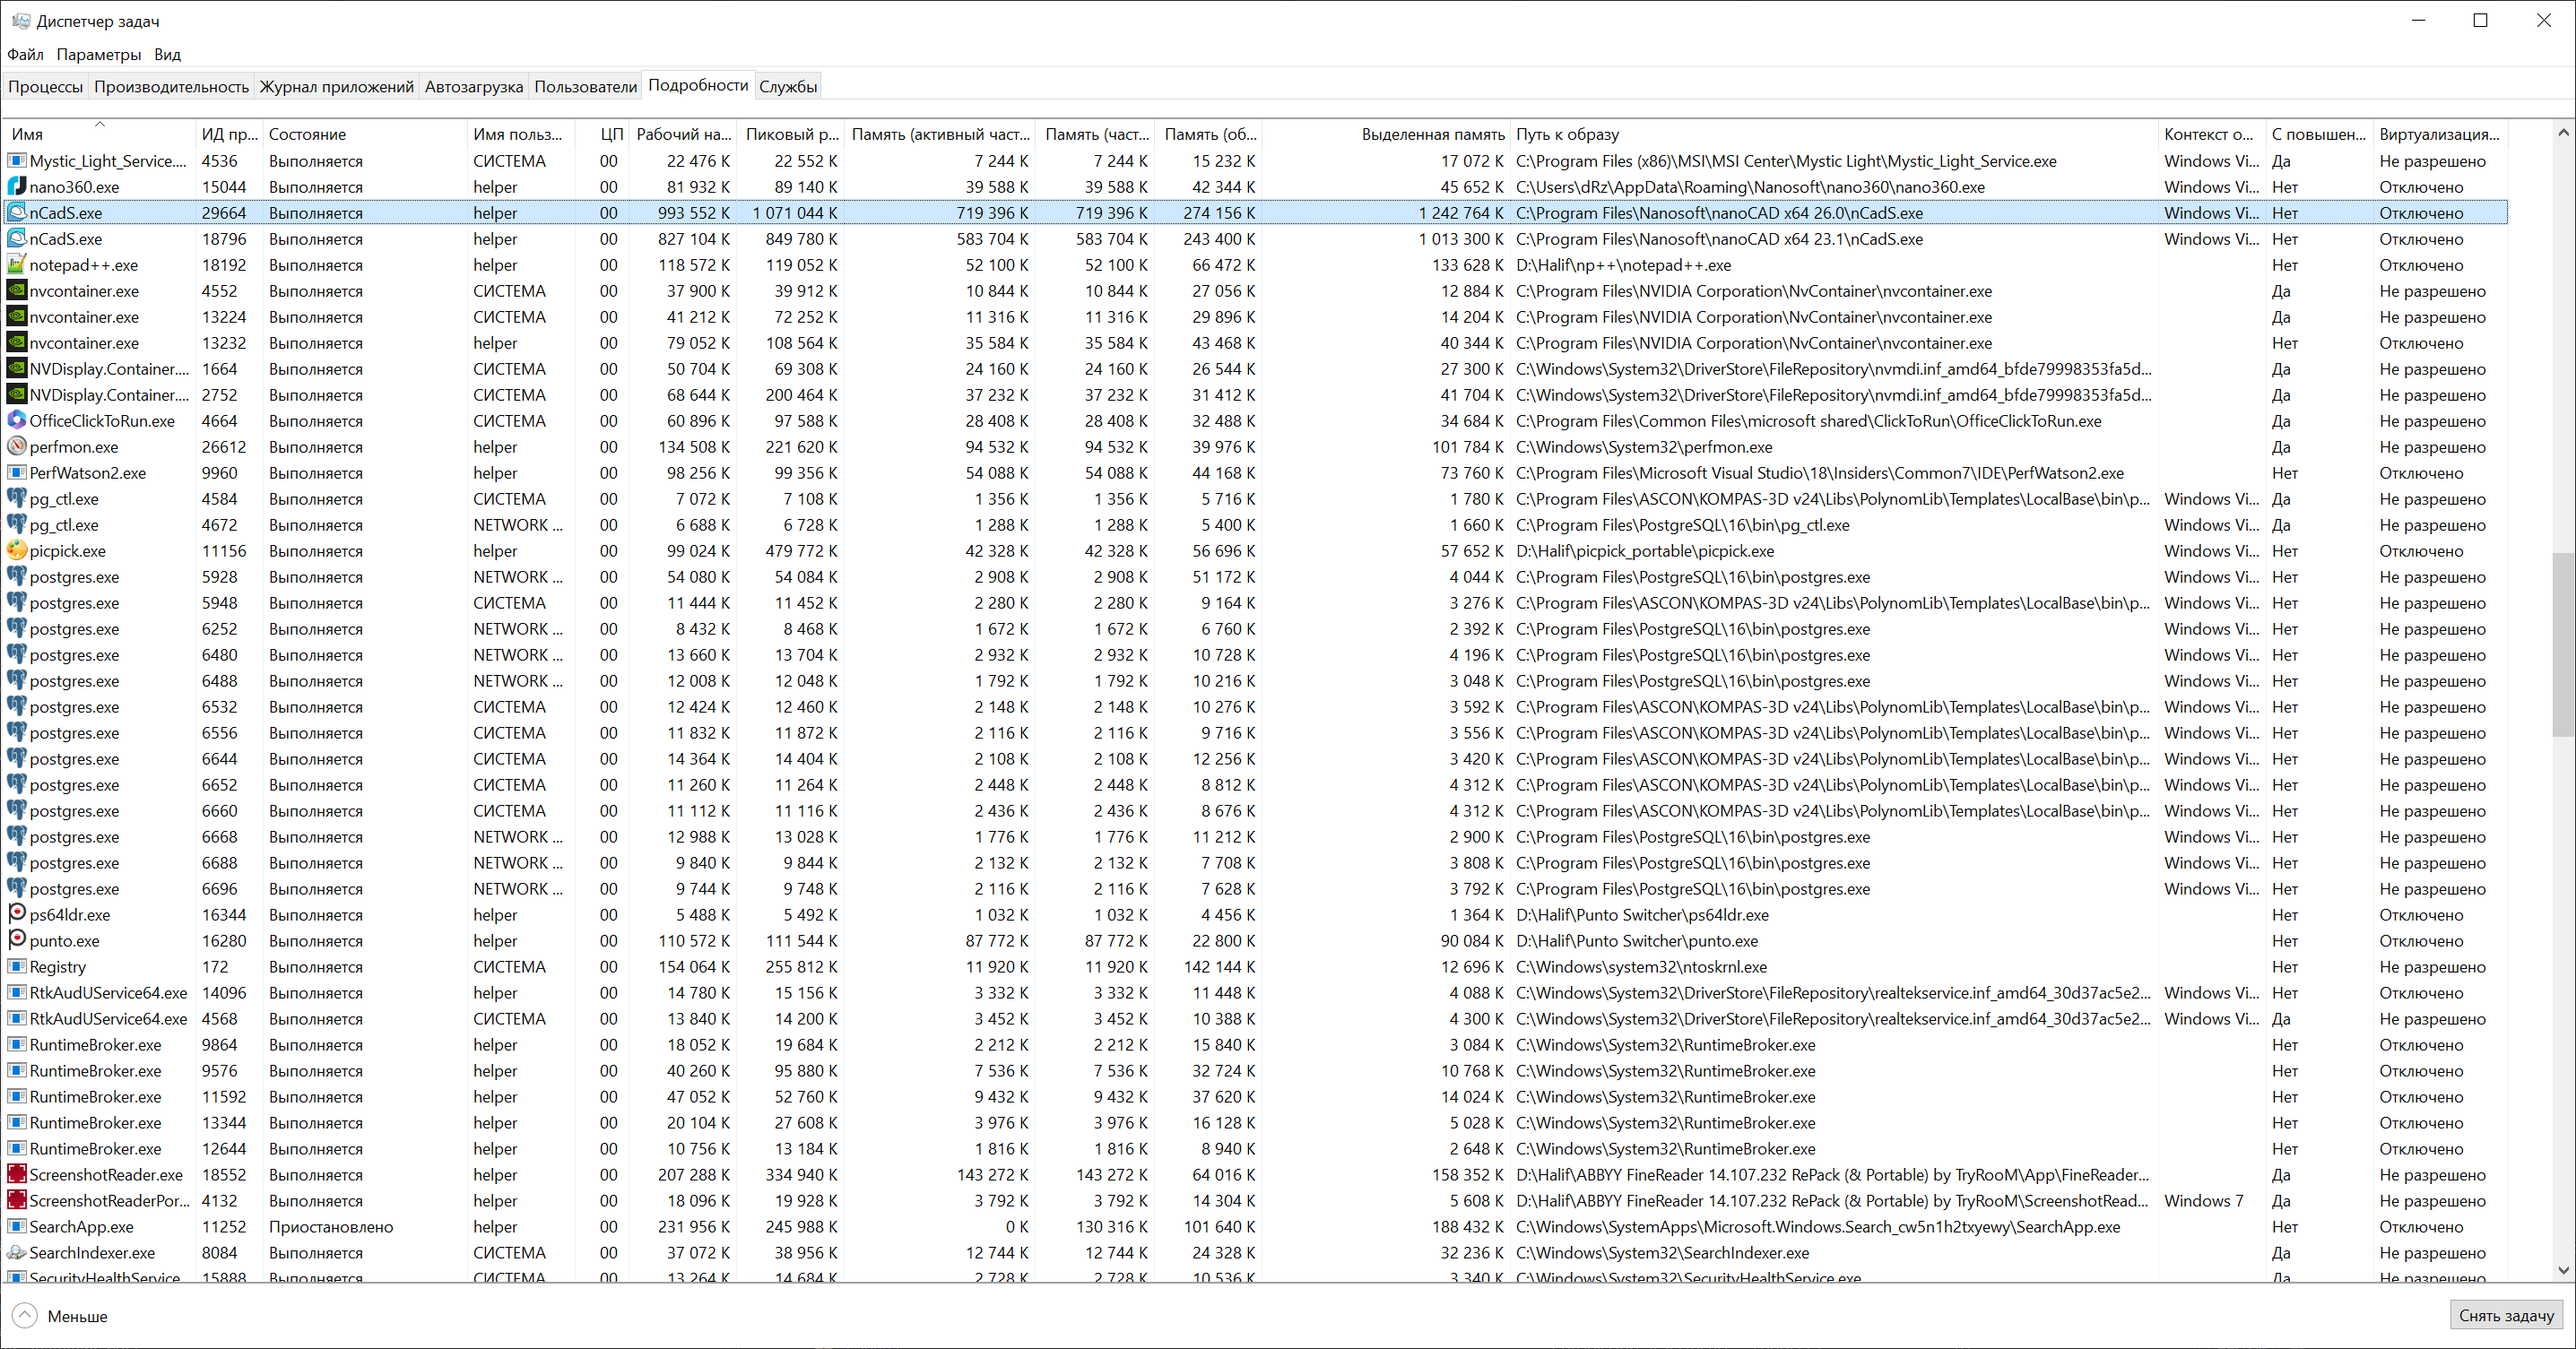
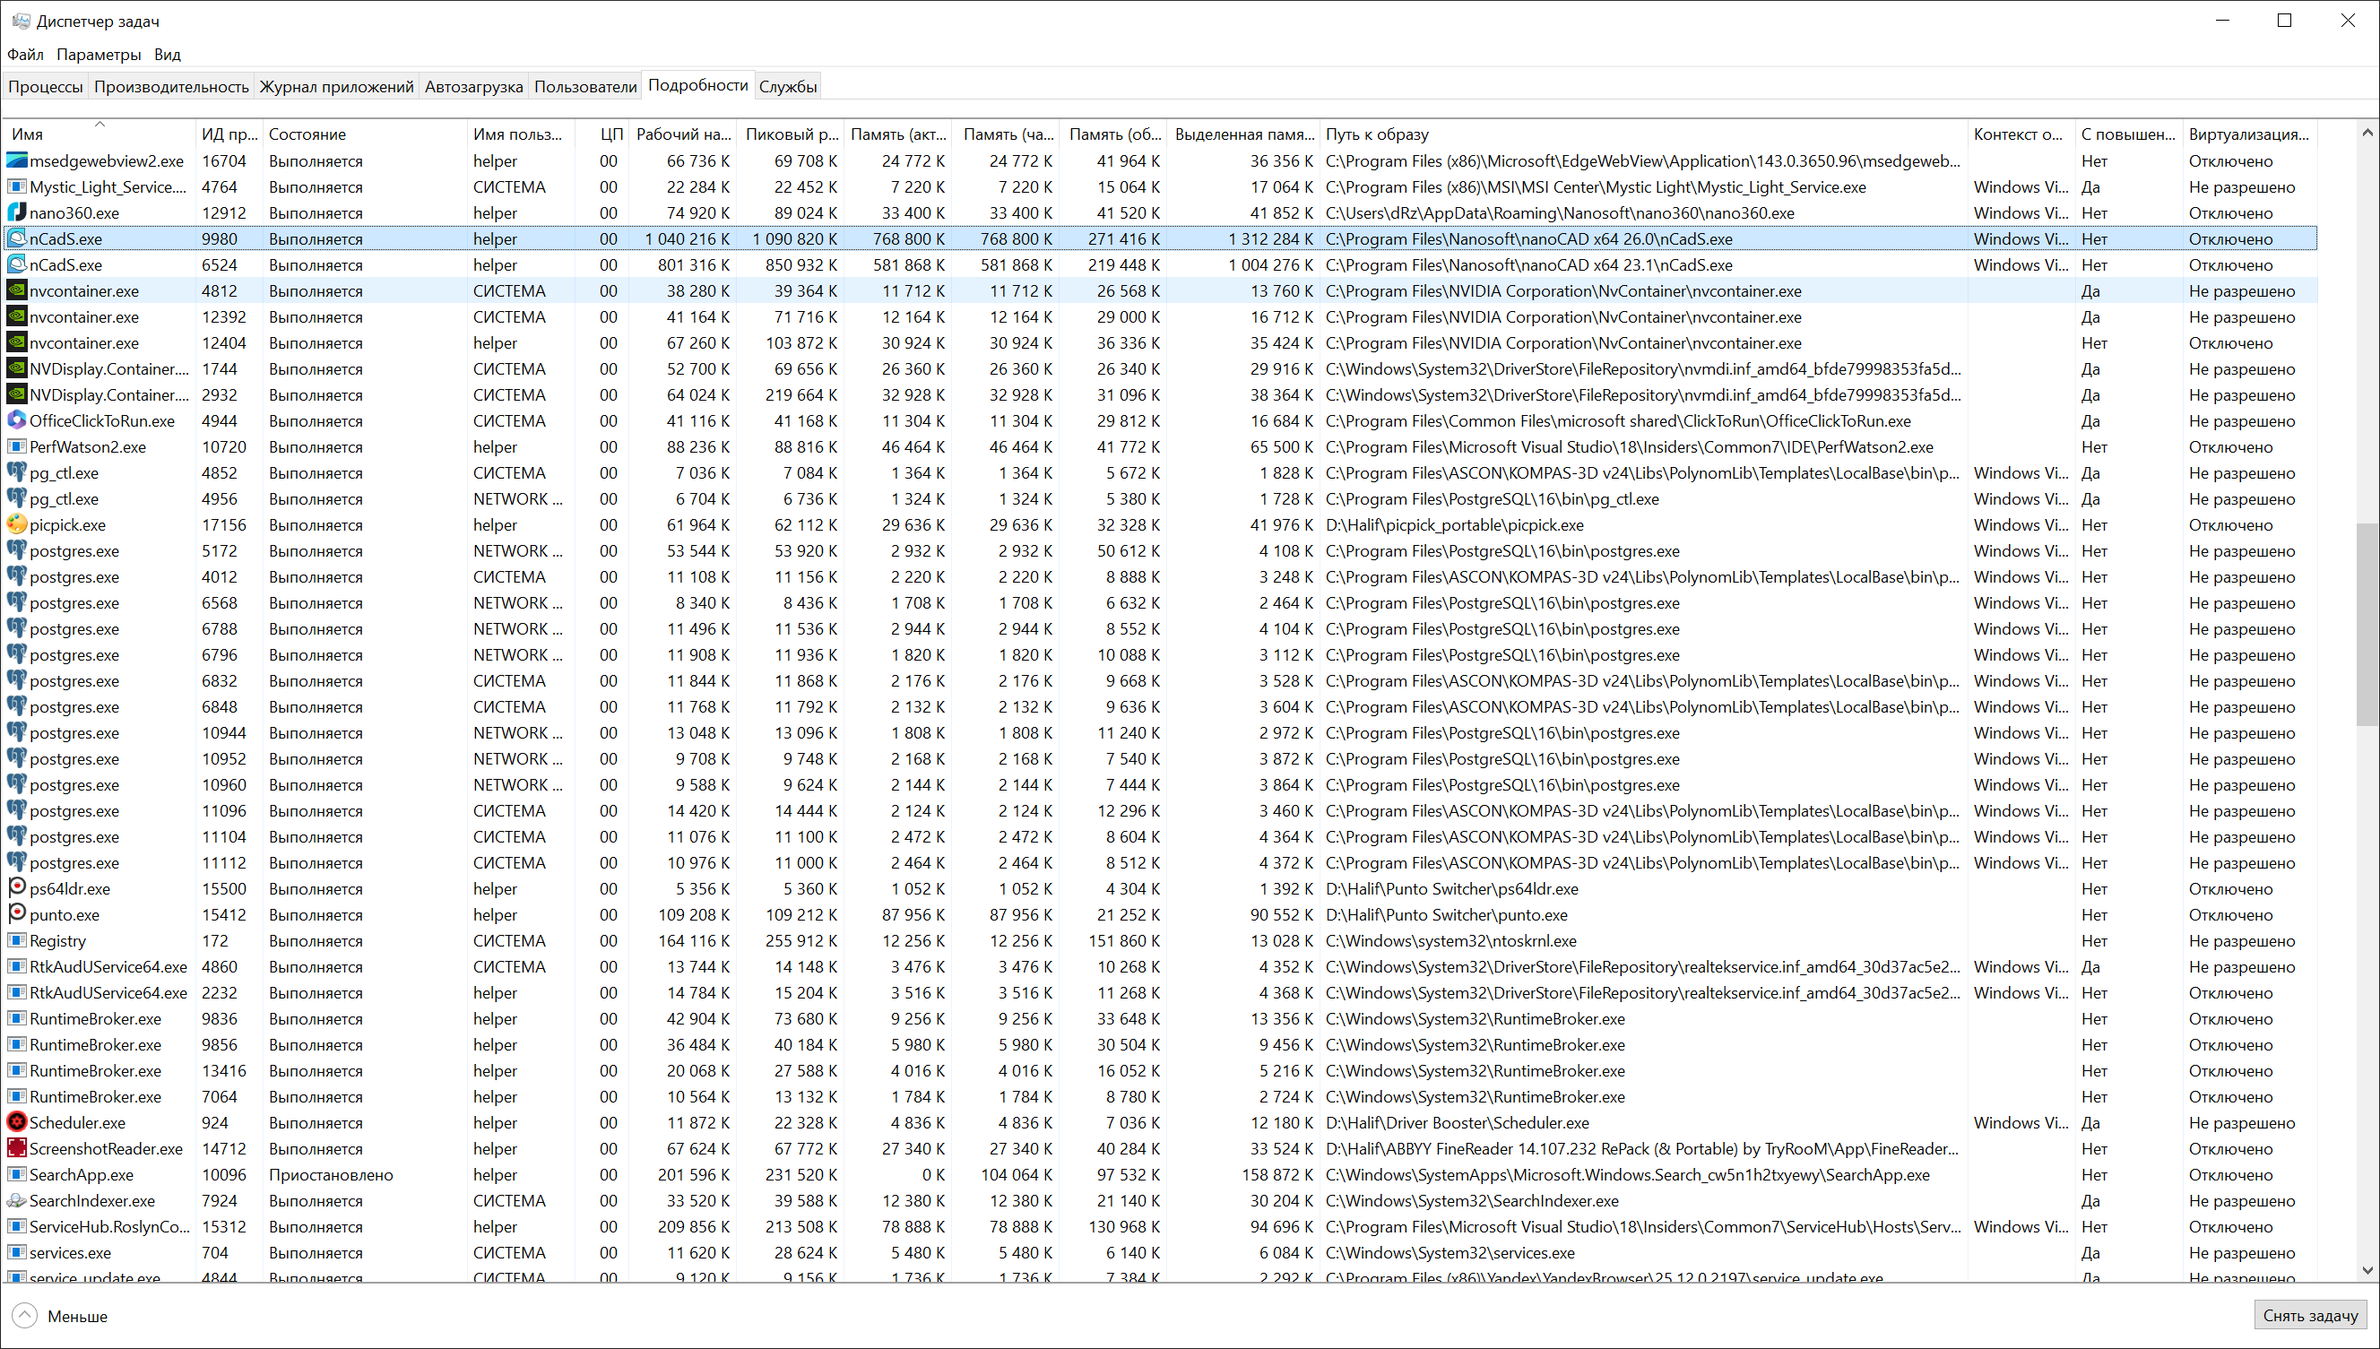
предварительные результаты

diff --git a/OpenDwg/Test.OpenDwg.NC.25/ReadMe.md b/OpenDwg/Test.OpenDwg.NC.25/ReadMe.md
@@ -2,42 +2,53 @@
 
 ## .NET6.0
 
-### MCD vs MCDI nc23.1 на автозаполнялка.dwg (5к одинаковых файлов)
-
-> [!WARNING]
-> нано 23,1 бага: первый запуск в нк23,1 всегда не может прочитать мультикад сыплет ошибками
-> второй запуск работает Ок, возможно что то не прогружается (наномодуль?)
-> уже неважно никто чинить не будет
-
-
-- MCD -  `McDocument mcDocument; ` -- вне цикла
-- MCDI -  `McDocument mcDocument; ` -- внутри цикла
-- MC -  `McDocument mcDocument; ` -- внутри цикла, файл не диспозим по окончании, 23,1 фаталит на 7-м файле
-
-
-|CAD|Reader|Всего|Прочитано|Ошибок|Время|Примечание|
-|---|---|---|---|---|---|---|
-|nc23.1|MultiCad|5000|5000|0|000:16:15.5516999|MCD|
-|nc23.1|MultiCad|5000|5000|0|00:16:07.1505257|MCDI|
-
-31-12-2025 19:50:35.24983: MCDI Total 1000, Read 1000, Err 0: time 00:03:53.4231029
-31-12-2025 19:51:28.84361: MCD Total 1000, Read 1000, Err 0: time 00:04:17.4456428
-
-
-### Батл нового nanoCAD 26 vs проверенный nanoCAD 23.1
 
 
 
+
+
+
+### Батл нового nanoCAD 26 vs nanoCAD 23.1 
+
+nanoCad`ы работают одновременно \
+
+#### в работе 1к файлов
+
+- Использованные ресурсы перед тестом, аддон загружен\
 ![memory](https://github.com/doctorRaz/Collection-of-nanoCAD-API-bugs/blob/main/OpenDwg/img/перед_тестом_тд_загружен.png)
 
-23
-31-12-2025 17:36:53.58861: TGMC Total 11376, Read 11365, Err 11: time 00:13:29.9008262
-31-12-2025 17:58:26.45077: TG Total 11376, Read 11374, Err 2: time 00:13:27.5906732
+- - MC - открыть файл в `MultiCad`, закрыть\
+![memory](https://github.com/doctorRaz/Collection-of-nanoCAD-API-bugs/blob/main/OpenDwg/img/MC.png)
+
+- MCD - открыть файл в `MultiCad`, закрыть, dispose\
+![memory](https://github.com/doctorRaz/Collection-of-nanoCAD-API-bugs/blob/main/OpenDwg/img/MCD.png)
+
+- TG -  открыть файл в `Teigha`, закрыть\
+![memory](https://github.com/doctorRaz/Collection-of-nanoCAD-API-bugs/blob/main/OpenDwg/img/TG.png)
+
+- TGMC - открыть файл в `Teigha`, получить открытый в `MultiCad`, закрыть\
+![memory](https://github.com/doctorRaz/Collection-of-nanoCAD-API-bugs/blob/main/OpenDwg/img/TGMC.png)
+
+#### 4к файлов
+
+- TGMC - открыть файл в `Teigha`, получить открытый в `MultiCad`, закрыть
+![memory](https://github.com/doctorRaz/Collection-of-nanoCAD-API-bugs/blob/main/OpenDwg/img/TGMG_4000.png)
+
+- MCD - открыть файл в `MultiCad`, закрыть, dispose\
+-> [!Note]
+> nannoCAD26 на 3572 файле завис напрочь, тест не завершен \
+![memory](https://github.com/doctorRaz/Collection-of-nanoCAD-API-bugs/blob/main/OpenDwg/img/MCD_4000.png)
 
 
-Имя J nano360.exe	ИД пр... 15044	Состояние Выполняется	Имя польз... helper	ЦП 00	Память (акт... 38 348 К	Память (об... 42 348 К	Выделенная памя... 44 396 К	Путь к образу C:\Users\dRz\AppData\Roaming\Nanosoft\nano360\nano360.exe
-©nCadS.exe	18240	Выполняется	helper	00	727 800 К	243 236 К	1 162 692 К	C:\Program Files\Nanosoft\nanoCAD х64 23.1\nCadS.exe
-©nCadS.exe	16356	Выполняется	helper	00	5 187 984 К	302 740 К	5 805 728 К	C:\Program Files\Nanosoft\nanoCAD х64 26.0\nCadS.exe
+> [!WARNING]
+> нано 23,1 бага: первый запуск в нк23,1 всегда не может открыть файлы сыплет ошибками
+> второй запуск работает Ок (если при первом не упадет), возможно что то не прогружается (наномодуль?)
+> уже неважно никто чинить не будет
+
+> [!IMPORTANT]
+> по всей видимости в nanoCAD26 есть проблемы с утечкой памяти.\
+> несмотря на это целом nanoCAD26 мне показался более стабильным при работе с мультикад, \
+> если мультикад не требуется то nanoCAD23 более предпочтителен, как более быстрый и стабильный
 
 
 
@@ -60,3 +71,31 @@
 
 
 походу утечка памяти в NC26 все же имеет место быть
+
+
+---
+
+
+### MCD vs MCDI nc23.1 на автозаполнялка.dwg (5к одинаковых файлов)
+
+мои персональные тараканы
+
+> [!WARNING]
+> нано 23,1 бага: первый запуск в нк23,1 всегда не может прочитать средствами мультикад сыплет ошибками
+> второй запуск работает Ок, возможно что то не прогружается (наномодуль?)
+> уже неважно никто чинить не будет
+
+
+- MCD -  `McDocument mcDocument; ` -- вне цикла
+- MCDI -  `McDocument mcDocument; ` -- внутри цикла
+- MC -  `McDocument mcDocument; ` -- внутри цикла, файл не диспозим по окончании, 23,1 фаталит на 7-м файле \
+но можно запустить после предыдущих тестов
+
+
+|CAD|Reader|Всего|Прочитано|Ошибок|Время|Примечание|
+|---|---|---|---|---|---|:---:|
+|nc23.1|MultiCad|5000|5000|0|000:16:15.5516999|MCD|
+|nc23.1|MultiCad|5000|5000|0|00:16:07.1505257|MCDI|
+|nc23.1|MultiCad|1000|1000|0|00:02:33.5982096|MCD|
+|nc23.1|MultiCad|1000|1000|0|00:02:34.2624314|MCDI|
+|nc23.1|MultiCad|1000|1000|0|00:02:35.0562535|MC|
